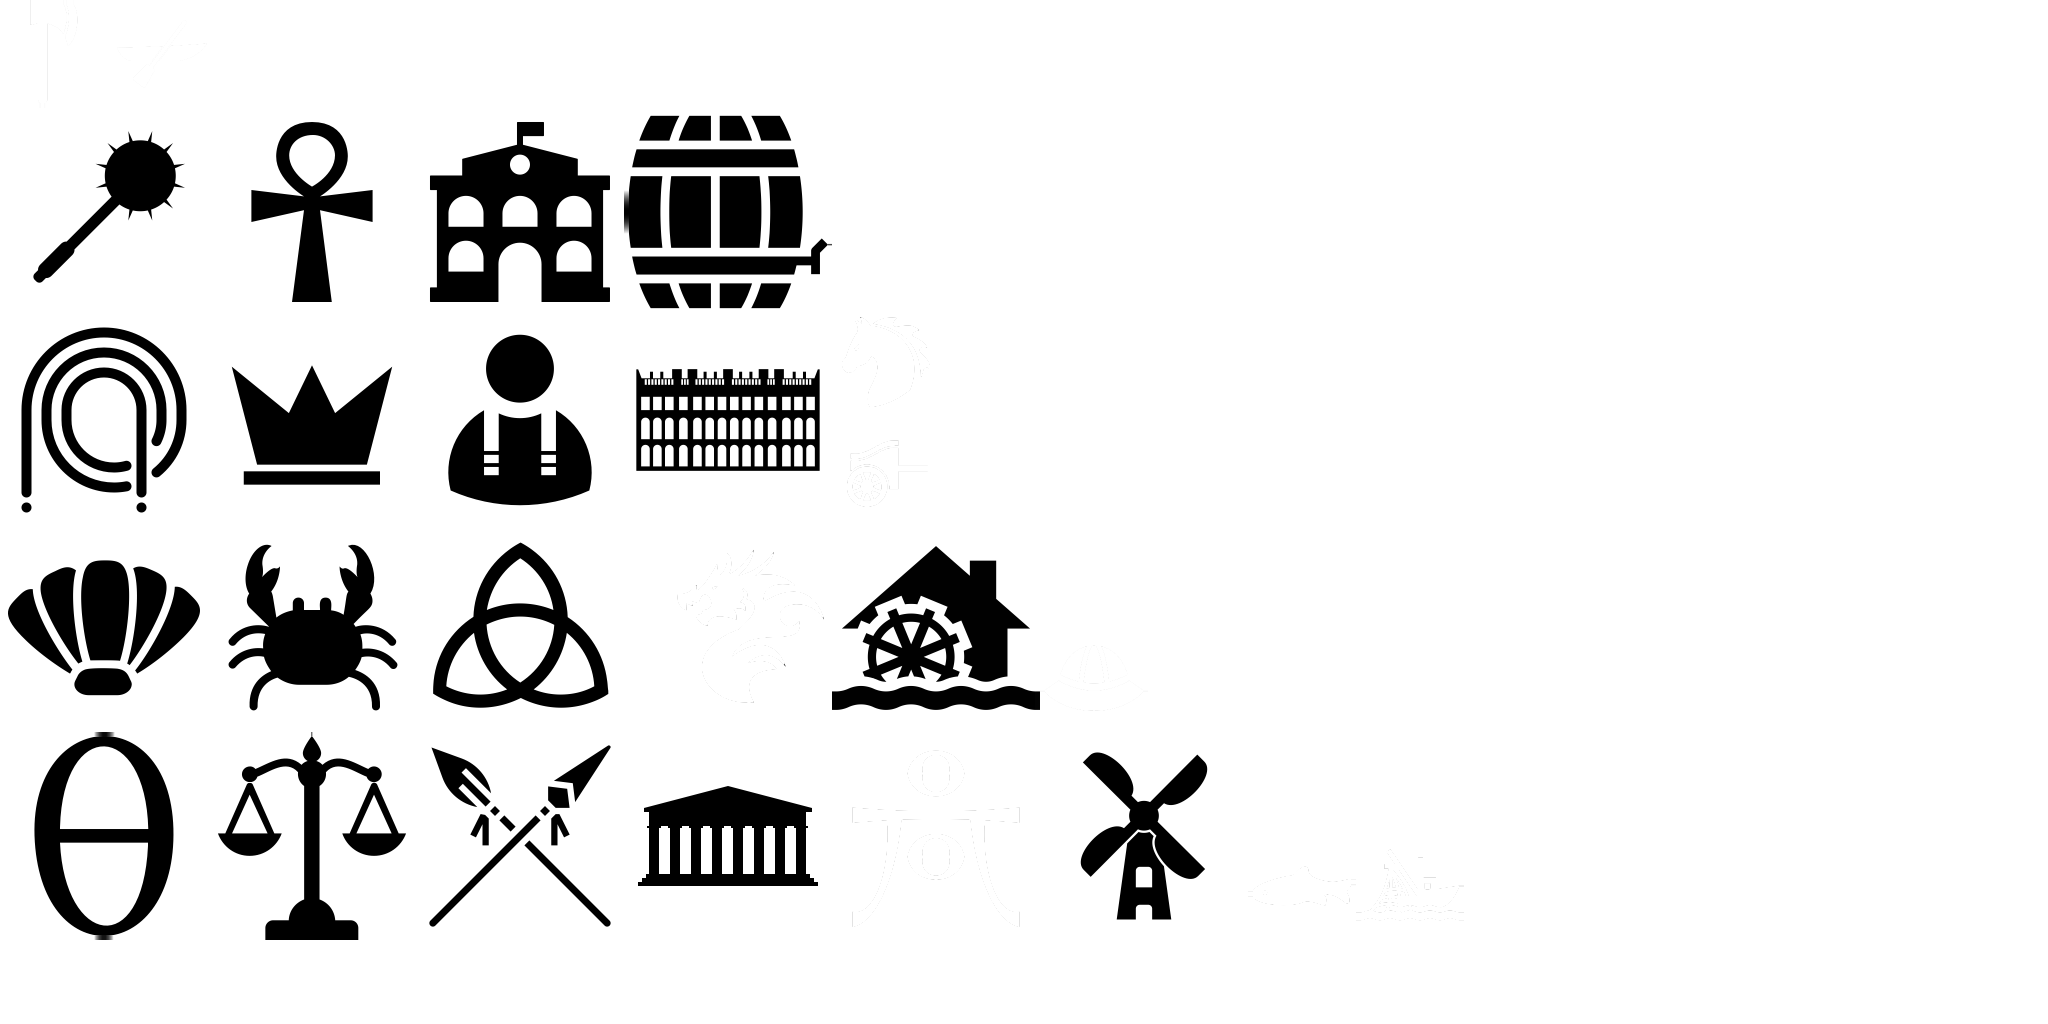
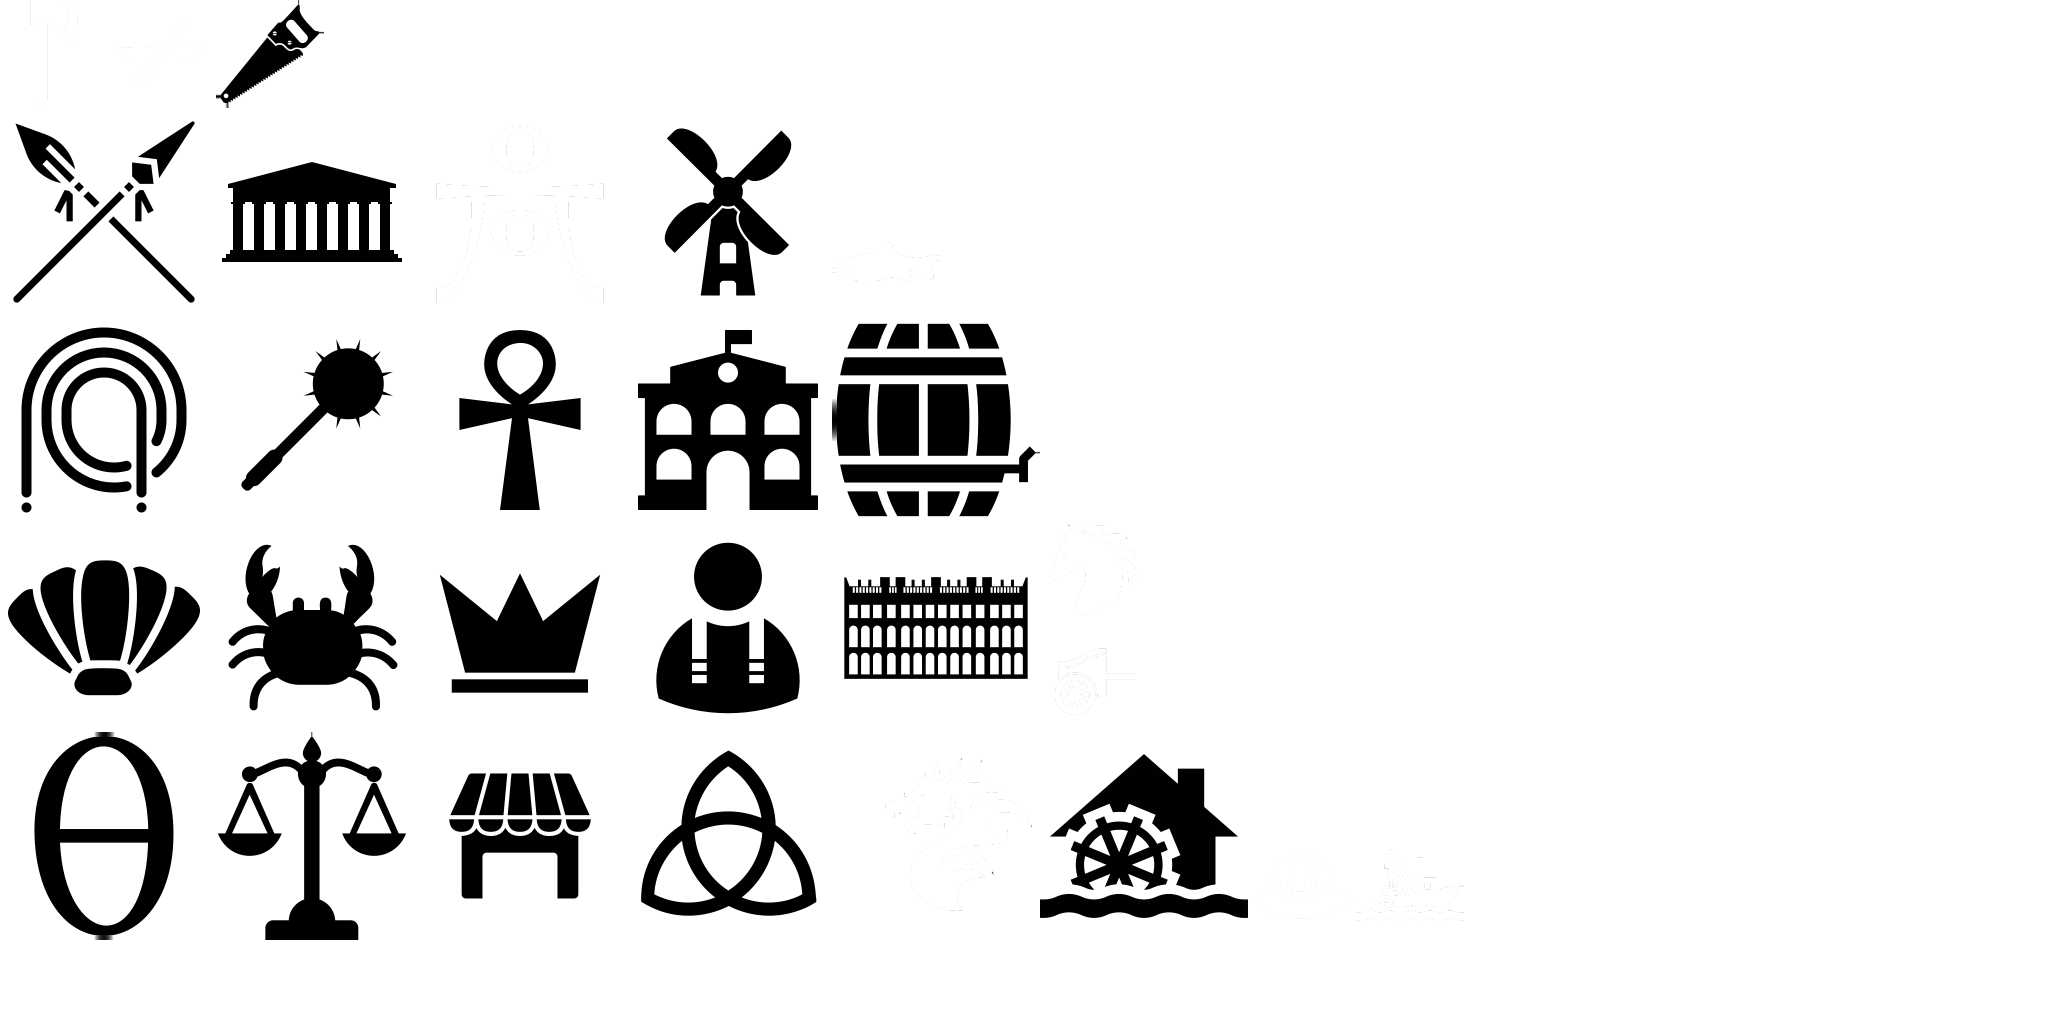
Added Nationalism, Education, Banking

diff --git a/README.md b/README.md
@@ -8,3 +8,4 @@ All images are from The Noun Project, Creative Commons, unless otherwise specifi
 
 - [University](https://thenounproject.com/icon/university-2908697/) by MRK from NounProject.com for University of Sankore
 - [Palace Of Versailles](https://thenounproject.com/icon/palace-of-versailles-2322278/) by Phạm Thanh Lộc from NounProject.com for Versailles
+- [Grocery store](https://thenounproject.com/icon/grocery-store-4116484/) by IcoLabs for Grocer
